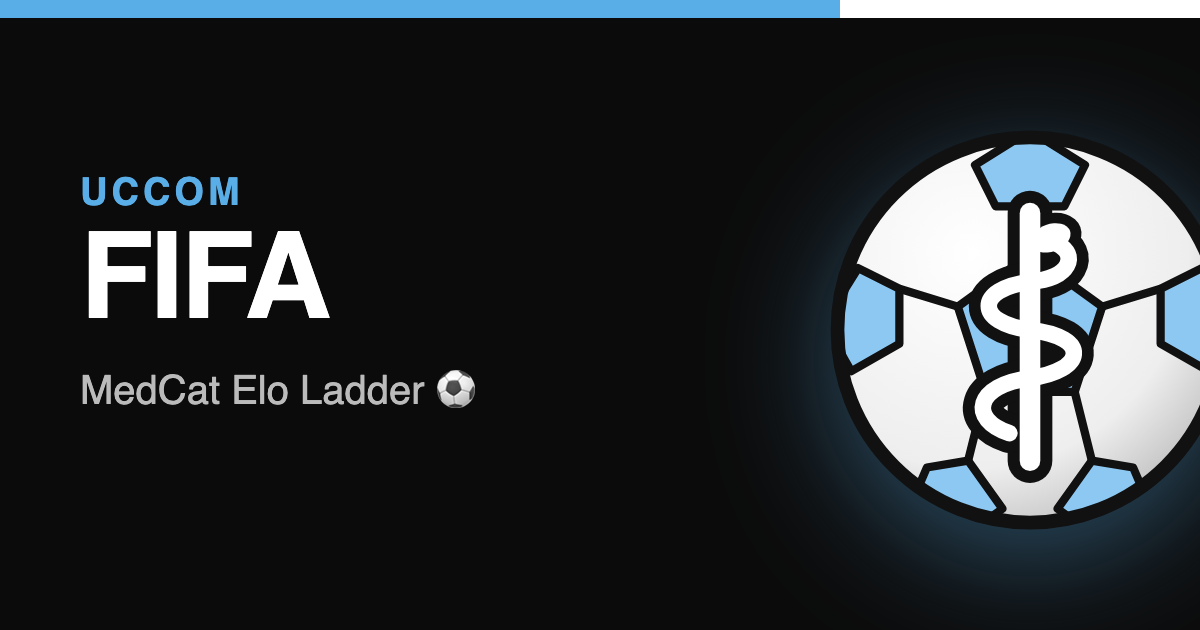
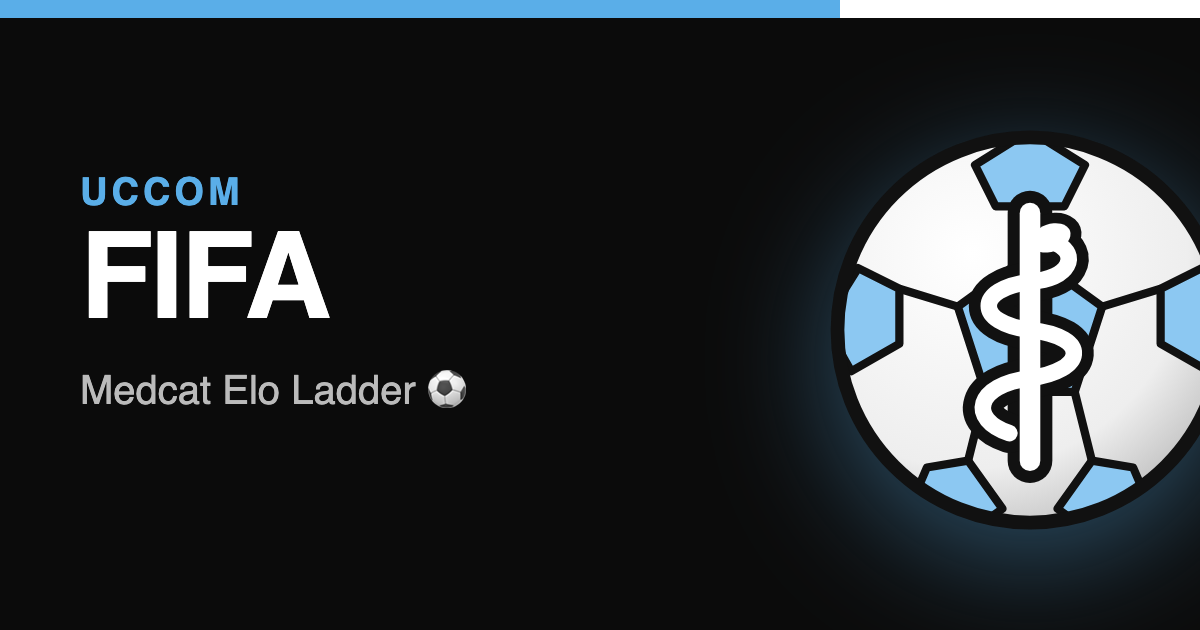
ogle: 'Medcat' capitalization everywhere (pages + previews)

Changed region(s): [[0.1233, 0.573, 0.4008, 0.6635]]

diff --git a/ogle/pong/index.html b/ogle/pong/index.html
@@ -5,9 +5,9 @@
 <meta name="viewport" content="width=device-width, initial-scale=1.0">
 <meta name="robots" content="noindex, nofollow, noimageindex">
 <title>UCCOM Ping Pong</title>
-<meta name="description" content="MedCat Elo Ladder — log games, climb the leaderboard.">
+<meta name="description" content="Medcat Elo Ladder — log games, climb the leaderboard.">
 <meta property="og:title" content="UCCOM Ping Pong">
-<meta property="og:description" content="MedCat Elo Ladder — log games, climb the leaderboard.">
+<meta property="og:description" content="Medcat Elo Ladder — log games, climb the leaderboard.">
 <meta property="og:type" content="website">
 <meta property="og:url" content="https://cjre.pl/ogle/pong/">
 <meta property="og:image" content="https://cjre.pl/ogle/pong/og.png">
@@ -272,17 +272,17 @@ try { const r = new URL(document.referrer); if (r.host === location.host && /^\/
 <header><div class="ball"><svg viewBox="0 0 64 64" aria-hidden="true"><g transform="translate(5 5)">
 <line x1="27" y1="10" x2="27" y2="46" stroke="#fff" stroke-width="3.6" stroke-linecap="round"/>
 <path d="M24 42 C 18 40, 19 35, 27 34 C 35 33, 36 28, 27 27 C 19 26, 19 21, 27 20 C 33 19.5, 34 16, 31 14.5" fill="none" stroke="#fff" stroke-width="3" stroke-linecap="round"/>
-<ellipse cx="30" cy="13.6" rx="3.4" ry="2.3" fill="#fff" transform="rotate(-20 30 13.6)"/></g></svg></div><div><h1>UCCOM Ping Pong</h1><p class="sub" id="sub">MedCat Elo Ladder<span id="gcount"></span></p></div></header>
+<ellipse cx="30" cy="13.6" rx="3.4" ry="2.3" fill="#fff" transform="rotate(-20 30 13.6)"/></g></svg></div><div><h1>UCCOM Ping Pong</h1><p class="sub" id="sub">Medcat Elo Ladder<span id="gcount"></span></p></div></header>
 
 <section class="card">
 <h2>Chart a game</h2>
 <div class="seg fmt" role="tablist" aria-label="Match format"><button type="button" data-mode="bo3" class="on">Best of 3</button><button type="button" data-mode="wl">Outcome</button><button type="button" data-mode="tour">Tournament</button></div>
 <p class="fmt-hint" id="fmthint"></p>
 <form id="f" autocomplete="off">
-  <div class="side"><input id="a" placeholder="MedCat 1" list="names" required>
+  <div class="side"><input id="a" placeholder="Medcat 1" list="names" required>
     <div class="stepper"><button type="button" class="step" data-t="sa" data-d="-1" aria-label="minus">&minus;</button><input class="score" id="sa" type="number" min="0" max="99" inputmode="numeric" placeholder="0" required><button type="button" class="step" data-t="sa" data-d="1" aria-label="plus">+</button></div><button type="button" class="winbtn" data-w="a">Won</button></div>
   <div class="vs" id="vs1">VS</div>
-  <div class="side r"><input id="b" placeholder="MedCat 2" list="names" required>
+  <div class="side r"><input id="b" placeholder="Medcat 2" list="names" required>
     <div class="stepper"><button type="button" class="step" data-t="sb" data-d="-1" aria-label="minus">&minus;</button><input class="score" id="sb" type="number" min="0" max="99" inputmode="numeric" placeholder="0" required><button type="button" class="step" data-t="sb" data-d="1" aria-label="plus">+</button></div><button type="button" class="winbtn" data-w="b">Won</button></div>
   <div class="grow g2"><div class="stepper"><button type="button" class="step" data-t="sa2" data-d="-1" aria-label="minus">&minus;</button><input class="score" id="sa2" type="number" min="0" max="99" inputmode="numeric" placeholder="0"><button type="button" class="step" data-t="sa2" data-d="1" aria-label="plus">+</button></div><div class="vs">G2</div><div class="stepper"><button type="button" class="step" data-t="sb2" data-d="-1" aria-label="minus">&minus;</button><input class="score" id="sb2" type="number" min="0" max="99" inputmode="numeric" placeholder="0"><button type="button" class="step" data-t="sb2" data-d="1" aria-label="plus">+</button></div></div>
   <div class="grow g3"><div class="stepper"><button type="button" class="step" data-t="sa3" data-d="-1" aria-label="minus">&minus;</button><input class="score" id="sa3" type="number" min="0" max="99" inputmode="numeric" placeholder="0"><button type="button" class="step" data-t="sa3" data-d="1" aria-label="plus">+</button></div><div class="vs">G3</div><div class="stepper"><button type="button" class="step" data-t="sb3" data-d="-1" aria-label="minus">&minus;</button><input class="score" id="sb3" type="number" min="0" max="99" inputmode="numeric" placeholder="0"><button type="button" class="step" data-t="sb3" data-d="1" aria-label="plus">+</button></div></div>

diff --git a/ogle/fifa/index.html b/ogle/fifa/index.html
@@ -5,9 +5,9 @@
 <meta name="viewport" content="width=device-width, initial-scale=1.0">
 <meta name="robots" content="noindex, nofollow, noimageindex">
 <title>UCCOM FIFA</title>
-<meta name="description" content="MedCat Elo Ladder — log games, climb the leaderboard.">
+<meta name="description" content="Medcat Elo Ladder — log games, climb the leaderboard.">
 <meta property="og:title" content="UCCOM FIFA">
-<meta property="og:description" content="MedCat Elo Ladder — log games, climb the leaderboard.">
+<meta property="og:description" content="Medcat Elo Ladder — log games, climb the leaderboard.">
 <meta property="og:type" content="website">
 <meta property="og:url" content="https://cjre.pl/ogle/fifa/">
 <meta property="og:image" content="https://cjre.pl/ogle/fifa/og.png">
@@ -254,16 +254,16 @@
 // Only offer "back" when we came from the Elo chooser (cjre.pl/ogle/elo, or cjre.pl/elo which redirects there).
 try { const r = new URL(document.referrer); if (r.host === location.host && /^\/(ogle\/)?elo\/?$/.test(r.pathname)) document.querySelector('.back').hidden = false; } catch {}
 </script>
-<header><div class="ball"><img src="icon.svg" alt=""></div><div><h1>UCCOM FIFA</h1><p class="sub">MedCat Elo Ladder &middot; everyone starts at 1000</p></div></header>
+<header><div class="ball"><img src="icon.svg" alt=""></div><div><h1>UCCOM FIFA</h1><p class="sub">Medcat Elo Ladder &middot; everyone starts at 1000</p></div></header>
 
 <section class="card">
 <h2>Chart a game</h2>
 <div class="seg" role="tablist"><button type="button" id="m-score" class="on">Score</button><button type="button" id="m-wl">Outcome</button><button type="button" id="m-tour">Tournament</button></div>
 <form id="f" autocomplete="off">
-  <div class="side"><input id="a" placeholder="MedCat 1" list="names" required>
+  <div class="side"><input id="a" placeholder="Medcat 1" list="names" required>
     <div class="stepper"><button type="button" class="step" data-t="sa" data-d="-1" aria-label="minus">&minus;</button><input class="score" id="sa" type="number" min="0" max="20" inputmode="numeric" placeholder="0" required><button type="button" class="step" data-t="sa" data-d="1" aria-label="plus">+</button></div><button type="button" class="winbtn" data-w="a">Won</button></div>
   <div class="vs">VS</div>
-  <div class="side r"><input id="b" placeholder="MedCat 2" list="names" required>
+  <div class="side r"><input id="b" placeholder="Medcat 2" list="names" required>
     <div class="stepper"><button type="button" class="step" data-t="sb" data-d="-1" aria-label="minus">&minus;</button><input class="score" id="sb" type="number" min="0" max="20" inputmode="numeric" placeholder="0" required><button type="button" class="step" data-t="sb" data-d="1" aria-label="plus">+</button></div><button type="button" class="winbtn" data-w="b">Won</button></div>
   <button type="button" class="winbtn drawbtn" data-w="draw">Draw</button>
   <button class="save" type="submit">Save game</button>

diff --git a/ogle/elo/index.html b/ogle/elo/index.html
@@ -5,9 +5,9 @@
 <meta name="viewport" content="width=device-width, initial-scale=1.0">
 <meta name="robots" content="noindex, nofollow, noimageindex">
 <title>UCCOM Elo</title>
-<meta name="description" content="MedCat Elo Ladders — Ping Pong and FIFA.">
+<meta name="description" content="Medcat Elo Ladders — Ping Pong and FIFA.">
 <meta property="og:title" content="UCCOM Elo">
-<meta property="og:description" content="MedCat Elo Ladders — Ping Pong and FIFA.">
+<meta property="og:description" content="Medcat Elo Ladders — Ping Pong and FIFA.">
 <meta property="og:type" content="website">
 <meta property="og:url" content="https://cjre.pl/ogle/elo/">
 <meta property="og:image" content="https://cjre.pl/ogle/pong/og.png">
@@ -74,7 +74,7 @@
 <div class="wrap">
 <a class="back" href="/ogle/">&larr; back</a>
 <h1>UCCOM Elo</h1>
-<p class="sub">MedCat Elo Ladders. Pick your game.</p>
+<p class="sub">Medcat Elo Ladders. Pick your game.</p>
 <div class="pick">
   <a class="game" href="../pong/"><img src="../pong/icon.svg" alt=""><div class="name">Ping Pong</div><div class="lead" id="l-pong"></div></a>
   <a class="game fifa" href="../fifa/"><img src="../fifa/icon.svg" alt=""><div class="name">FIFA</div><div class="lead" id="l-fifa"></div></a>

diff --git a/elo/index.html b/elo/index.html
@@ -6,7 +6,7 @@
   <link rel="canonical" href="/ogle/elo/">
   <title>UCCOM Elo</title>
   <meta property="og:title" content="UCCOM Elo">
-  <meta property="og:description" content="MedCat Elo Ladders — Ping Pong and FIFA.">
+  <meta property="og:description" content="Medcat Elo Ladders — Ping Pong and FIFA.">
   <meta property="og:url" content="https://cjre.pl/ogle/elo/">
   <meta property="og:image" content="https://cjre.pl/ogle/pong/og.png">
   <meta name="twitter:card" content="summary_large_image">
